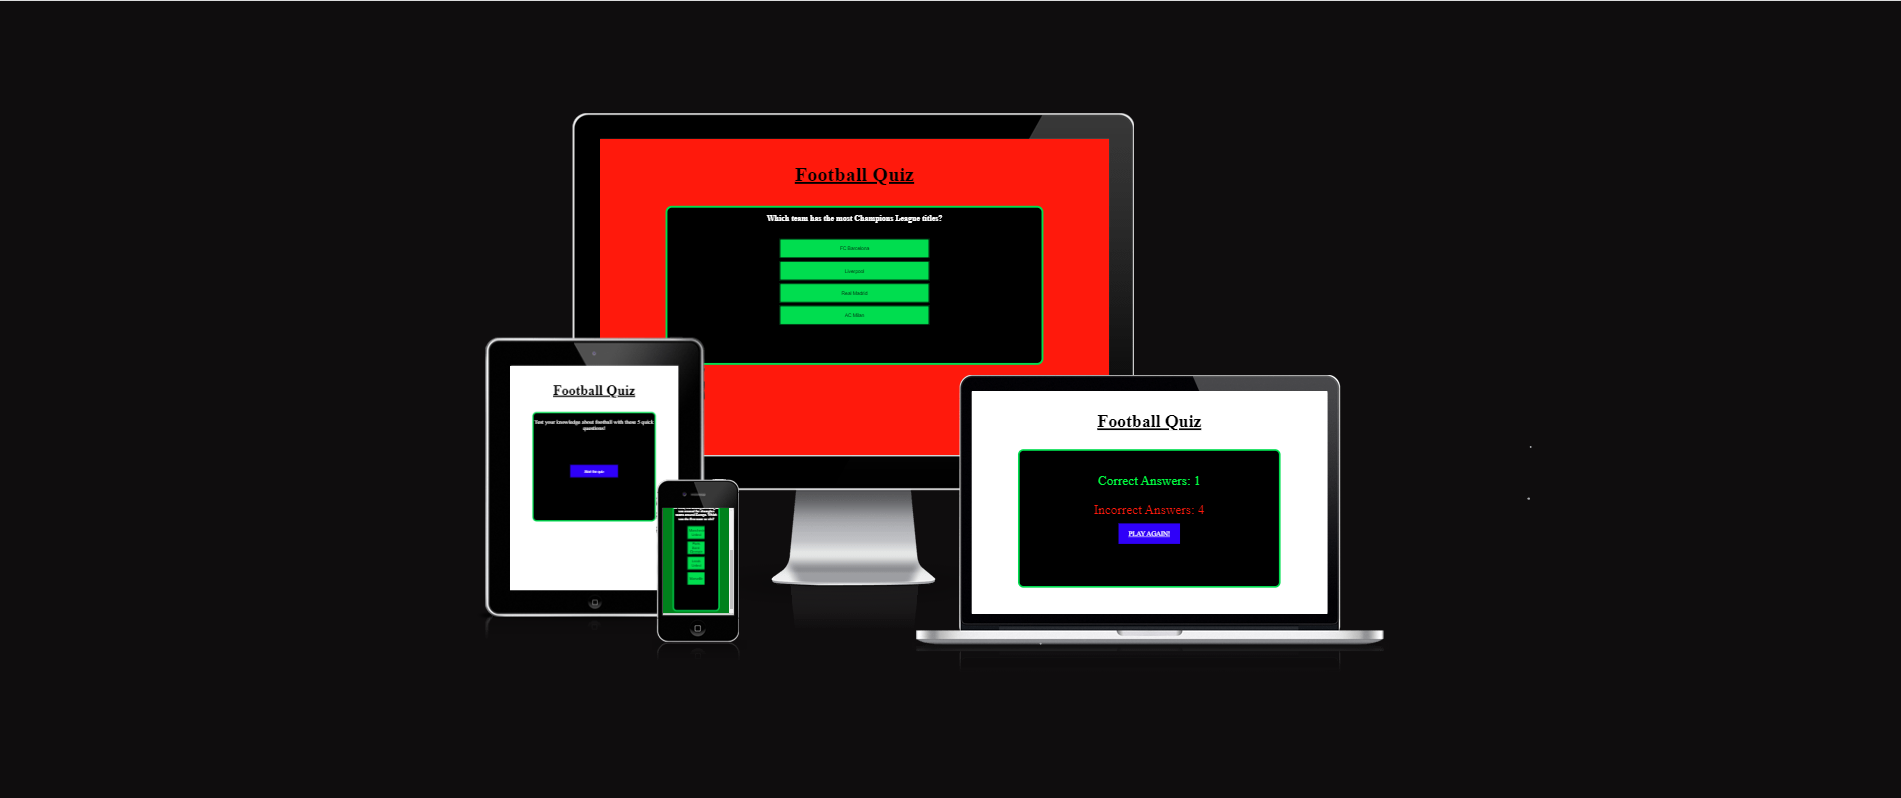
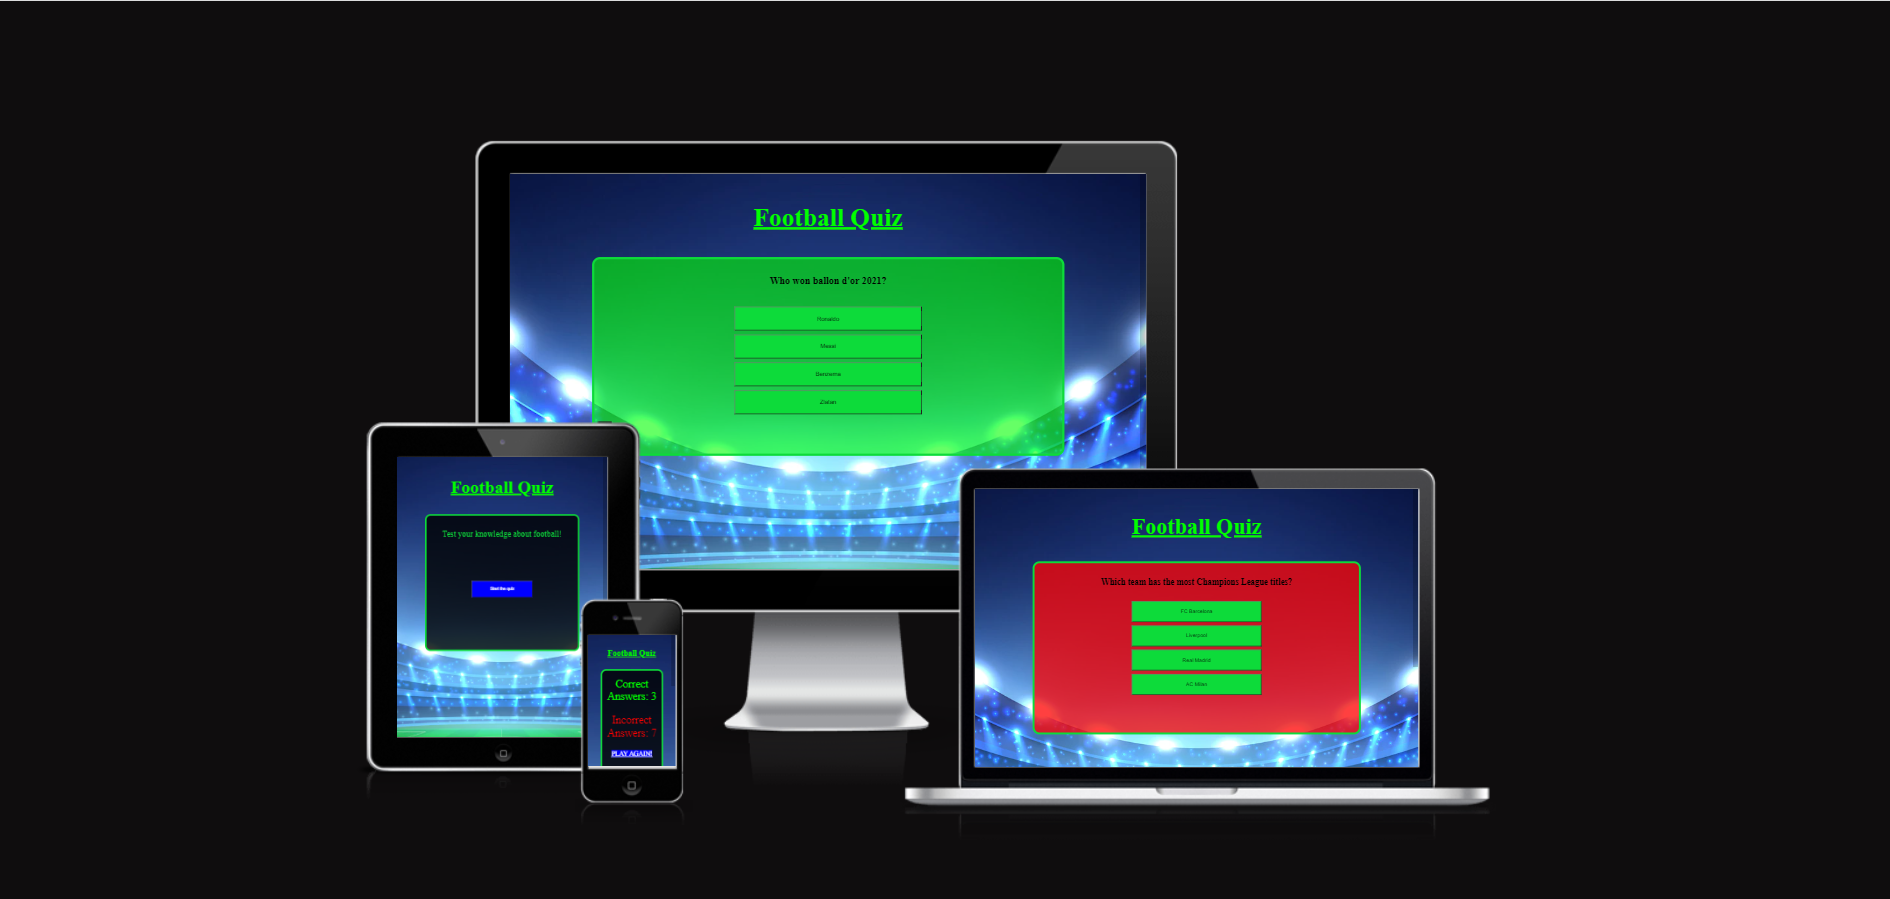
Update Readme.md file with images and links

Changed region(s): [[0.1873, 0.1203, 0.8116, 0.9023]]

diff --git a/index.html b/index.html
@@ -5,8 +5,8 @@
     <meta charset="UTF-8">
     <meta name="viewport" content="width=device-width, initial-scale=1.0">
     <meta http-equiv="X-UA-Compatible" content="ie=edge">
-    <meta name="Description" content="A short quiz about football" />
-    <meta name="keywords" content="Quiz, football" />
+    <meta name="Description" content="A short quiz about football">
+    <meta name="keywords" content="Quiz, football">
     <link rel="stylesheet" href="assets/css/style.css">
     <title>Football Quiz</title>
 </head>

diff --git a/README.md b/README.md
@@ -5,29 +5,114 @@ Football Quiz Game is a interactive quiz about the users knowledge in football. 
 
 ![responsive design image](assets/images/Responsive.png)
 
-## Testing
+<img alt="W3C Validation" src="https://img.shields.io/w3c-validation/html?targetUrl=https%3A%2F%2Fherrlin85.github.io%2FQuizgame%2F">
+<img alt="GitHub top language" src="https://img.shields.io/github/languages/top/Herrlin85/QuizGame">
+<img alt="GitHub language count" src="https://img.shields.io/github/languages/count/Herrlin85/QuizGame?style=plastic">
 
-  - **Bugs**
-    - No bugs found
+## CONTENTS
+* [Design](#Design)
+  * [Colour Scheme](#Colour-Scheme)
+  * [Images](#Images)
+  * [Features](#Features)
+  * [Accessibility](#Accessibility)
+* [Future Implementations](#Future-Implementations)
+  * [Sign up page](#Sign-up-page)
+  * [Highscore](#Highscore)
+  * [Categories](#Categories)
+* [Testing](#Testing)
+  * [Solved Bugs](#Solved-Bugs)
+  * [Manual Testing](#Manual-Testing)
+  * [Accessibility](#Accessibility)
+  * [Validator Testing](Validator-Testing)
 
-  - **Manual testing**
-     - I have tested and confirmes that the site is responsive in a range of devices and different screen sizes using Chromes devtools
-     - I have tested and confirmes that the site works properly in browsers such as Chrome, Firefox and Microsoft Edge
-
-
-**Validator Testing**
- - HTML
-   - No errors were returned when passing through the official [W3C validator](https://validator.w3.org/nu/?doc=https%3A%2F%2Fherrlin85.github.io%2FQuizgame%2F)
+- - -
   
-  - CSS
-    - No errors were returned when passing through the official [W3C validator](https://jigsaw.w3.org/css-validator/validator?uri=https%3A%2F%2Fherrlin85.github.io%2FQuizgame%2F&profile=css3svg&usermedium=all&warning=1&vextwarning=&lang=sv)
+## Design
 
-  - JavaScript 
-    - No errors or bugs were returned when passing through [JSHint](https://jshint.com/)]
+### Colour Scheme
 
-  - Accessibility 
-   - I have checked and confirmed that the contrast on the site makes it easy to read and are accessible by using Lighthouse on Chrome
+![Quizgame colour Palette](assets/images/Palette.png)
+
+The website uses a palette of colours that fit the eyes well. When the background colour change depending on answer the text colour is also changed to be read easily. The colour palette was created using the [Coolors](https://coolors.co/) website.
+
+### Images
+![Background image](assets/images/Stadium.webp)
+
+The image used for the background is taken from the free website https://www.freepik.com/
+
+### Features
+
+The website contains a title that takes the user back to the landing page when clicked and a 
+button to start the quiz
+
+![Landing page](assets/images/Intro.png)
+
+
+If a users answer is correct the game area will change colour to green 
+
+![Right answer](assets/images/Right.png)
+
+
+If a users answer is wrong the game area will change colour to red
+
+![Wrong answer](assets/images/Wrong.png)
+
+
+When the last question is answered a text and a show score button will appear, the colour of the 
+background will be either green or red depending on the users answer on the last question.
+
+
+![Last question](assets/images/Show.png)
+
+
+When pressing the show score button it will show the total correct and incorrect answers with a
+play again button if the user want to go again.
+
+![Score area](assets/images/Score.png)
+
+## Future Implementations
+
+  ### Sign up page
+  - Add signup page
+
+  ### Highscore
+  - Add a highscore function 
+
+  ### Categories
+  - Add 4 different fotball categories e.g. Premier League, La liga etc
+
+
+
+## Testing
+  
+  ### Solved Bugs
+  - The checkAnswer function started when the start quiz button was pressed which made the background red and counted as 
+    a wrong answer. This was fixed by removing the checkAnswer() function from the startGame function
+
+  ### Manual testing
+  - I have tested and confirmes that the site is responsive in a range of devices and different screen sizes using Chromes devtools
+  - I have tested and confirmes that the site works properly in browsers such as Chrome, Firefox and Microsoft Edge
+  - I have tested all buttons connected to an eventlistener and it works like it should
+  - I have tested the play again button and it links you to the start as it should
+  - I have tested so when you click on the title "Football Quiz" it takes you to the the landing page
+  - I have tested that every question gives the right point to either correct or incorrect span
+
+  ### Accessibility
+  - I have used semantic HTML
+  - I've made sure to use sufficient colour contrast and easy to read text
+  - I have checked and confirmed that the contrast on the site makes it easy to read and are accessible by using Lighthouse on Chrome
 ![Lighthouse check](assets/images/Lighthouse.png)
+
+  ## Validator Testing
+
+   **HTML**
+  - No errors were returned when passing through the official [W3C validator](https://validator.w3.org/nu/?doc=https%3A%2F%2Fherrlin85.github.io%2FQuizgame%2F)
+  
+   **CSS**
+  - No errors were returned when passing through the official [W3C validator](https://jigsaw.w3.org/css-validator/validator?uri=https%3A%2F%2Fherrlin85.github.io%2FQuizgame%2F&profile=css3svg&usermedium=all&warning=1&vextwarning=&lang=sv)
+
+   **JavaScript** 
+  - No errors or bugs were returned when passing through [JSHint](https://jshint.com/)]
 
 
 ## Deployment
@@ -41,8 +126,5 @@ Football Quiz Game is a interactive quiz about the users knowledge in football. 
 
 ## Credits
 
-**Content**
-
 **Media**
 
-No media was used
